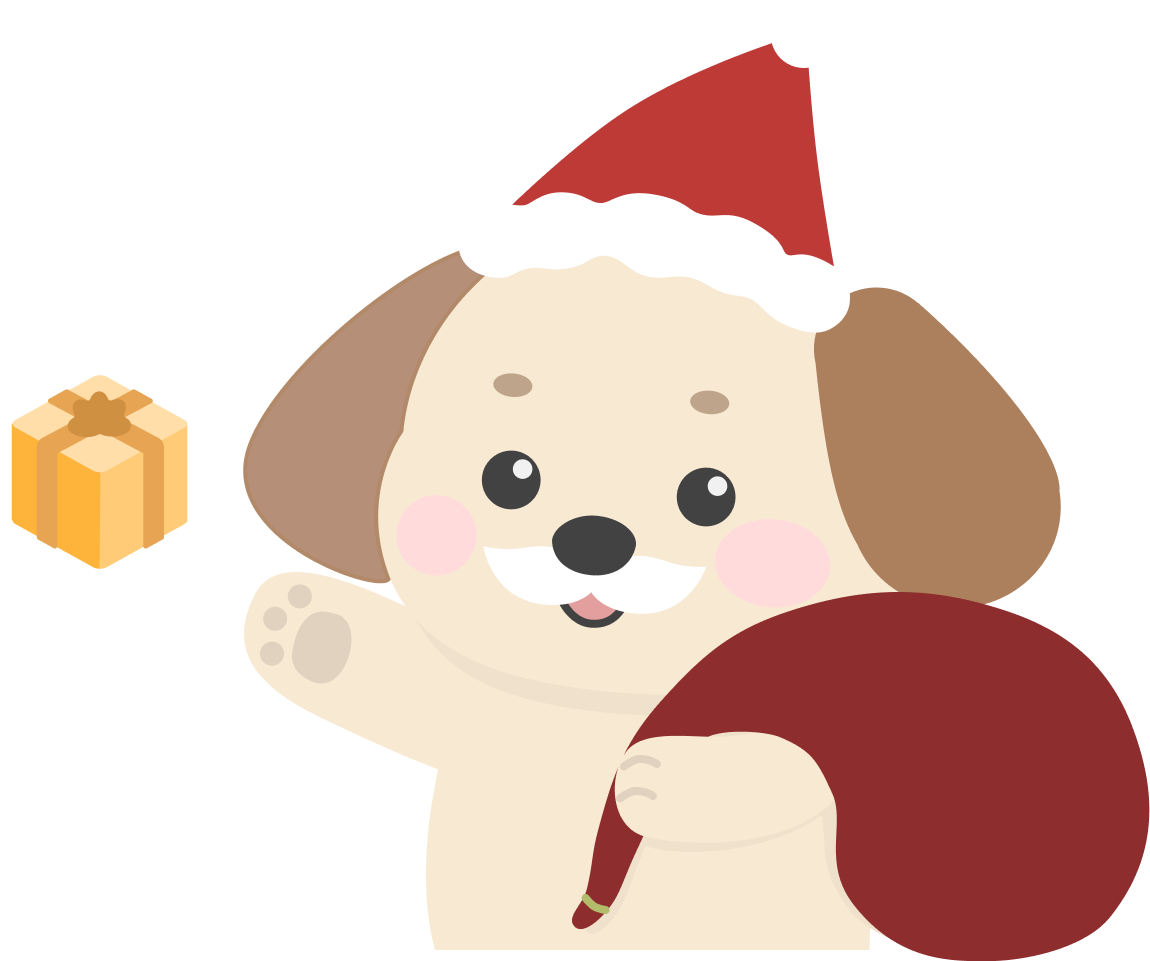
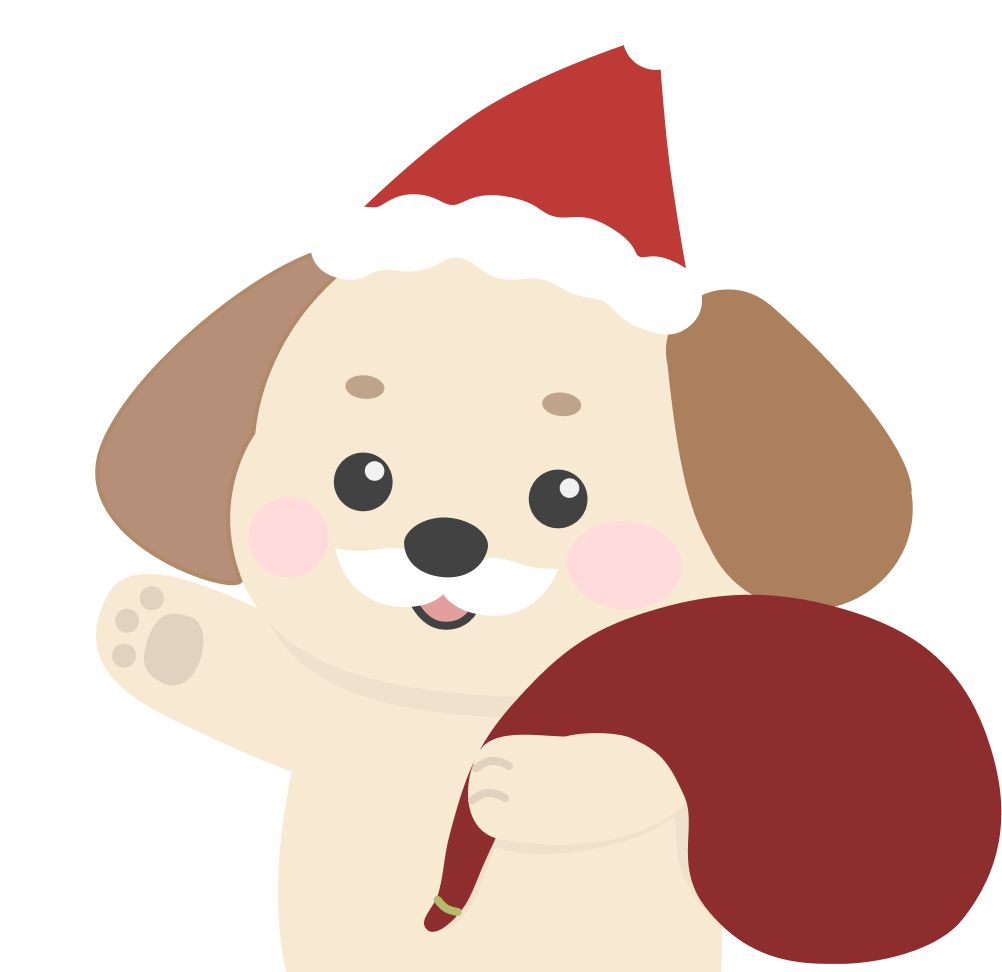
feat : 크리스마스 쿠키 Issue : #245

diff --git a/src/components/pages/HomePage/chat-render.tsx b/src/components/pages/HomePage/chat-render.tsx
@@ -388,7 +388,8 @@ export const RenderFooter = (sending: boolean) => {
         justifyContent: 'flex-start',
       }}>
       <Image
-        source={require('../../../assets/images/cookieprofile.png')}
+        //source={require('../../../assets/images/cookieprofile.png')}
+        source={require('../../../assets/images/cookieprofilechristmas.png')}
         style={{ objectFit: 'contain', width: 35 * rsWidth, height: 35 * rsHeight }}
       />
       <TypingIndicator isTyping={sending} />

diff --git a/app.config.js b/app.config.js
@@ -8,10 +8,10 @@ module.exports = {
     slug: 'reMIND',
     version: '1.2.5',
     orientation: 'portrait',
-    icon: './src/assets/images/appicon.png',
+    icon: './src/assets/images/christmasappicon.png',
     userInterfaceStyle: 'automatic',
     splash: {
-      image: './src/assets/images/splash.png',
+      image: './src/assets/images/christmassplash.png',
       resizeMode: 'contain',
       backgroundColor: '#4DA584',
     },

diff --git a/src/components/pages/HomePage/new-chat.tsx b/src/components/pages/HomePage/new-chat.tsx
@@ -59,7 +59,8 @@ const userObject = {
 const botObject = {
   _id: 1,
   name: '쿠키',
-  avatar: require('../../../assets/images/cookieprofile.png'),
+  //avatar: require('../../../assets/images/cookieprofile.png'),
+  avatar: require('../../../assets/images/cookieprofilechristmas.png'),
 };
 
 const NewChat: React.FC = ({ navigation }) => {
